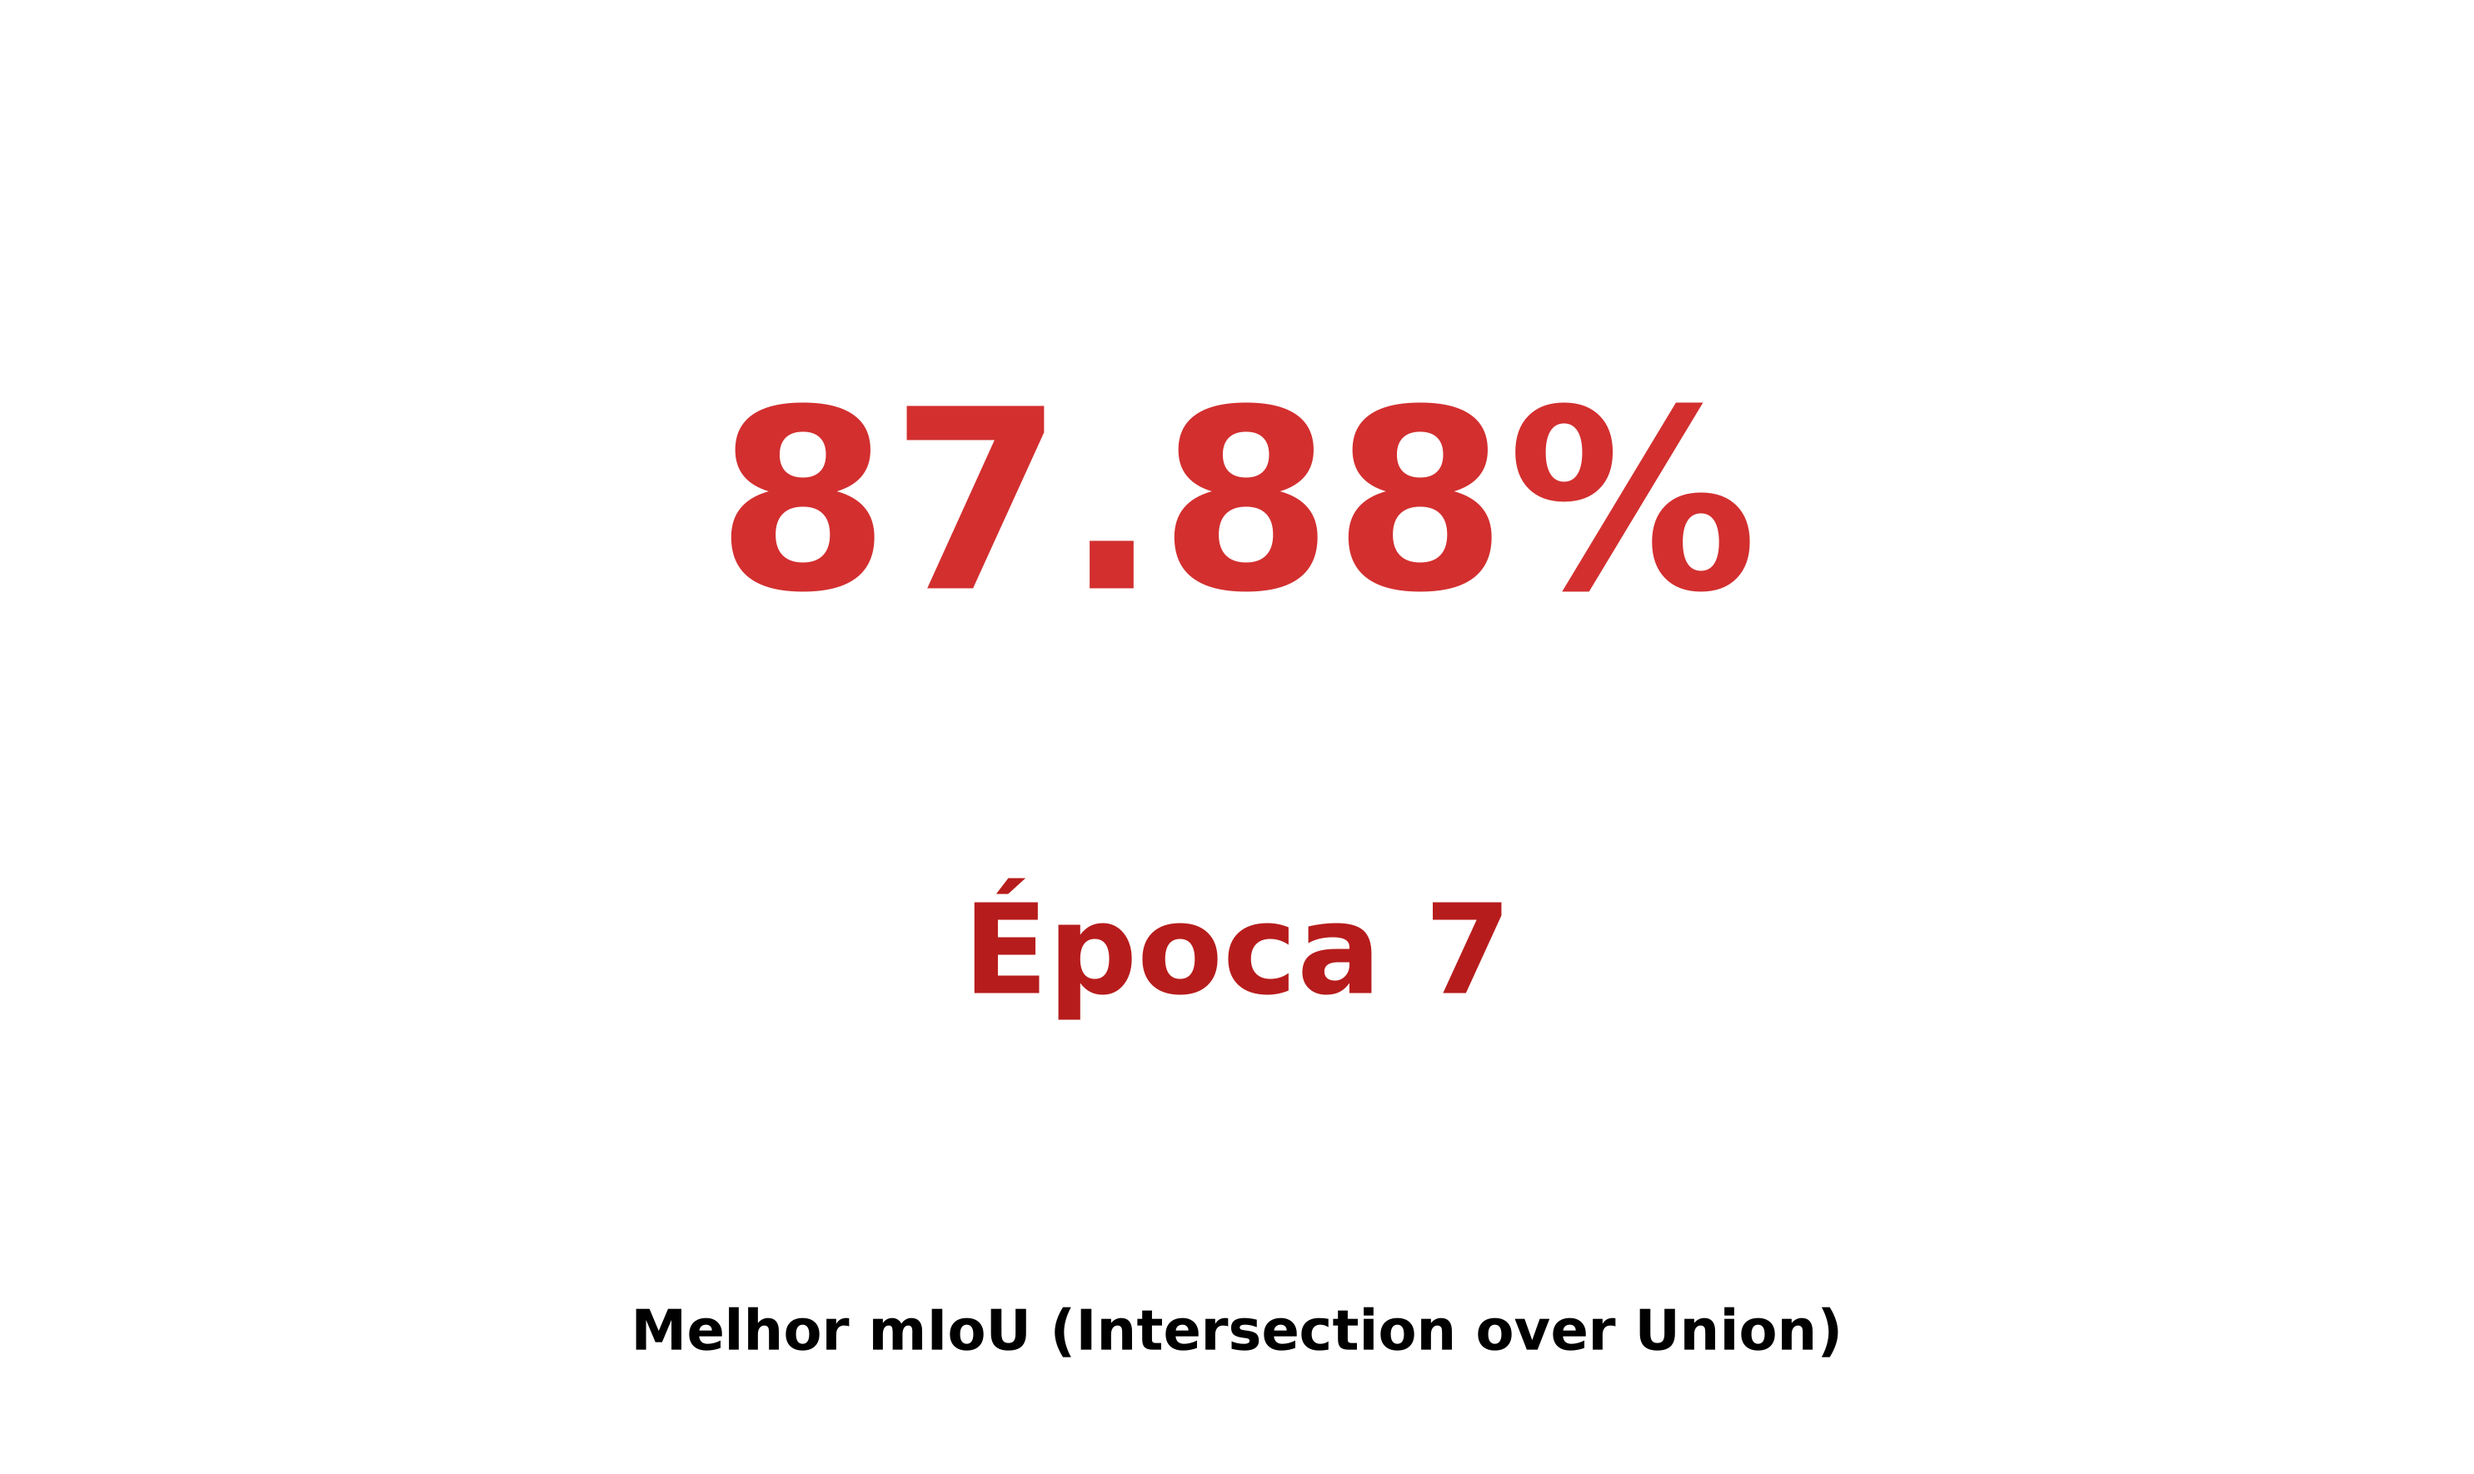
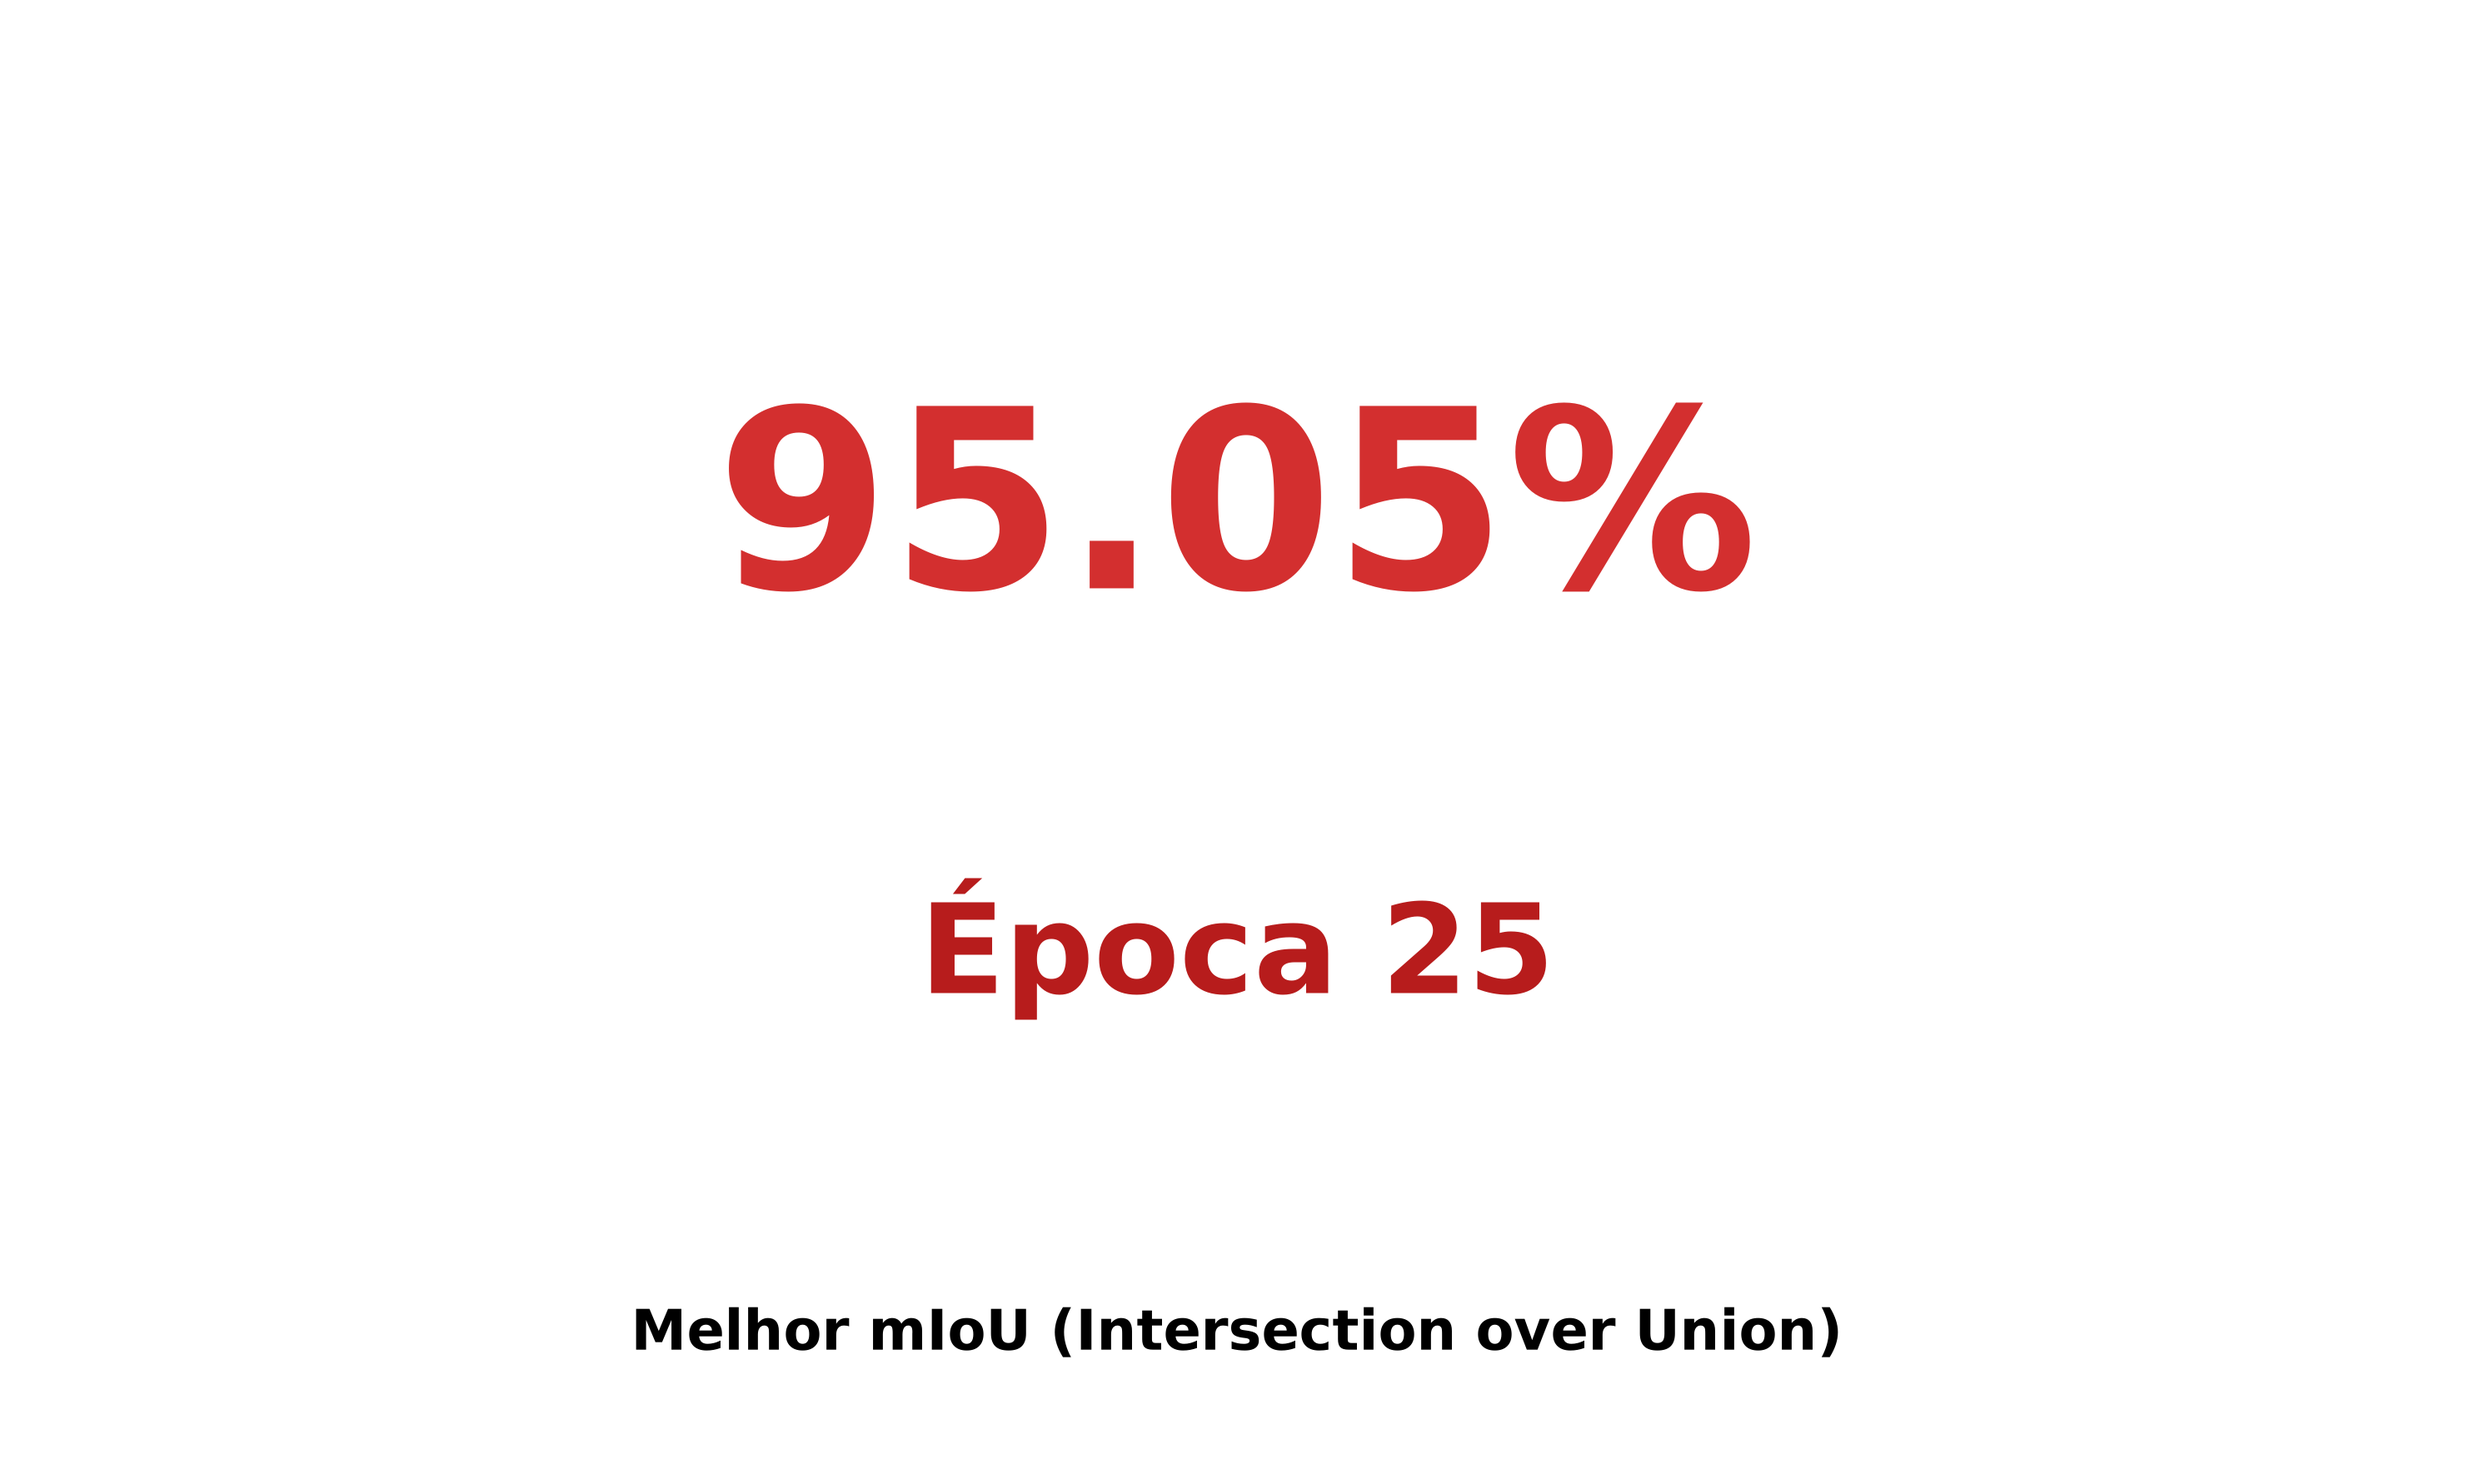
Subindo o modelo de FCN

Changed region(s): [[0.3717, 0.5904, 0.6195, 0.7147], [0.2788, 0.2797, 0.4337, 0.404], [0.4646, 0.2797, 0.6195, 0.404]]

diff --git a/training/trainer/fcn_trainer.py b/training/trainer/fcn_trainer.py
@@ -1,0 +1,117 @@
+import os
+import torch
+import numpy as np
+import torch.nn as nn
+
+from PIL import Image
+from torchvision import transforms
+from torch.utils.data import DataLoader
+
+from ..dataset import OffRoadDataset
+from ..earlyStopping import EarlyStopping
+from .model.fcn import FCN 
+
+from configs.settings import Settings
+from metrics import MetricsTracker, Charts
+
+settings = Settings()
+charts = Charts()
+early_stopping = EarlyStopping()
+
+EPOCHS = settings.get_epochs()
+
+img_transform = transforms.Compose([
+    transforms.Resize((512, 512)),
+    transforms.ToTensor(),
+    transforms.Normalize(mean=[0.485, 0.456, 0.406],
+                         std=[0.229, 0.224, 0.225]),
+])
+
+device = torch.device("cuda" if torch.cuda.is_available() else "cpu")
+model = FCN(num_classes=2).to(device)
+class_weights = torch.tensor([1.0, 9.0]).to(device)
+criterion = nn.CrossEntropyLoss(weight=class_weights)
+optimizer = torch.optim.Adam(model.parameters(), lr=1e-4)
+train_dataset = OffRoadDataset('data/dataset/train', img_transform)
+train_loader = DataLoader(train_dataset, batch_size=4, shuffle=True, num_workers=0)
+
+print(f"Total de imagens de treino: {len(train_dataset)}")
+
+# 3. Alterando o nome da classe do treinador
+class FCNTrainer():
+    def __init__(self):
+        self.metrics_tracker = MetricsTracker()
+        pass
+        
+    def train_one_epoch(self, loader, epoch_num):
+        model.train()
+
+        self.metrics_tracker.start_epoch()
+        for batch_idx, (images, masks) in enumerate(loader):
+            images = images.to(device)
+            masks = masks.to(device)
+
+            optimizer.zero_grad()
+            outputs = model(images)
+            loss = criterion(outputs, masks)
+            loss.backward()
+            optimizer.step()
+
+            self.metrics_tracker.update_metrics(loss.item(), outputs, masks)
+            
+        self.metrics_tracker.end_epoch(epoch_num)
+        early_stopping(self.metrics_tracker.avg_miou)
+
+
+    def train_model(self):
+
+        self.metrics_tracker.start_training()
+        for epoch in range(EPOCHS):
+            epoch_num = epoch + 1
+            
+            self.train_one_epoch(train_loader, epoch_num)
+            self.save_best_model()
+            
+            if early_stopping.should_stop:
+                break
+            
+        self.metrics_tracker.end_training()
+
+
+    def save_best_model(self):
+        if self.metrics_tracker.is_best:
+            # 4. Alterando a pasta de destino para "fcn"
+            path = os.path.join("results", "fcn", "model.pth")
+            
+            # Garante que a pasta 'results/fcn' exista antes de salvar
+            os.makedirs(os.path.dirname(path), exist_ok=True) 
+            
+            torch.save(model.state_dict(), path)
+
+
+    def save_results(self):
+        # 5. Alterando o diretório de inferência para "fcn"
+        output_dir = 'data/dataset/train/new_segmentation/fcn'
+        
+        # Garante que a pasta de resultados da inferência exista
+        os.makedirs(output_dir, exist_ok=True)
+
+        infer_loader = DataLoader(train_dataset, batch_size=4, shuffle=False, num_workers=0)
+        global_idx = 0
+
+        with torch.no_grad():
+            for images, _ in infer_loader:
+                images = images.to(device)
+                outputs = model(images)
+                preds = torch.argmax(outputs, dim=1).cpu().numpy()
+
+                for i in range(preds.shape[0]):
+                    img_name = train_dataset.images[global_idx]
+                    base_name = os.path.splitext(img_name)[0]
+                    output_path = os.path.join(output_dir, base_name + ".png")
+
+                    # via = branco (255), não-via = preto (0)
+                    pred_img = Image.fromarray((preds[i] * 255).astype(np.uint8))
+                    pred_img.save(output_path)
+
+                    global_idx += 1

diff --git a/training/trainer/model/fcn.py b/training/trainer/model/fcn.py
@@ -1,0 +1,29 @@
+import torch
+import torch.nn as nn
+import torch.nn.functional as F
+import torchvision.models as models
+
+class FCN(nn.Module):
+    def __init__(self, num_classes):
+        super().__init__()
+        
+        resnet = models.resnet152(weights='IMAGENET1K_V1')
+        
+        self.backbone = nn.Sequential(*list(resnet.children())[:-2])
+        
+        self.classifier = nn.Sequential(
+            nn.Conv2d(2048, 512, kernel_size=3, padding=1, bias=False),
+            nn.BatchNorm2d(512),
+            nn.ReLU(inplace=True),
+            nn.Dropout(0.1),
+            nn.Conv2d(512, num_classes, kernel_size=1)
+        )
+
+    def forward(self, x):
+        input_size = x.shape[-2:]
+        
+        x = self.backbone(x)
+        x = self.classifier(x)
+        x = F.interpolate(x, size=input_size, mode='bilinear', align_corners=False)
+        
+        return x

diff --git a/training/training_service.py b/training/training_service.py
@@ -1,9 +1,12 @@
 from training import (
     DeepLabV3Trainer,
+    FCNTrainer
 )
 from metrics import Charts
 
 deeplab_v3_trainer = DeepLabV3Trainer()
+fcn_trainer = FCNTrainer()
+
 charts = Charts()
 
 class TrainingService():
@@ -12,9 +15,14 @@ class TrainingService():
         pass
 
     def train_models(self):
+        self.train_fcn()
         self.train_deep_lab()
 
     def train_deep_lab(self):
         deeplab_v3_trainer.train_model()
         deeplab_v3_trainer.save_results()
         charts.plot_charts(deeplab_v3_trainer.metrics_tracker)
+
+    def train_fcn(self):
+        fcn_trainer.train_model()
+        fcn_trainer.save_results()

diff --git a/training/trainer/deeplabv3_trainer.py b/training/trainer/deeplabv3_trainer.py
@@ -84,7 +84,7 @@ class DeepLabV3Trainer():
 
 
     def save_results(self):
-        output_dir = 'data/dataset/train/new_segmentation'
+        output_dir = 'data/dataset/train/new_segmentation/deeplabv3+'
 
         infer_loader = DataLoader(train_dataset, batch_size=4, shuffle=False, num_workers=0)
         global_idx = 0

diff --git a/training/trainer/__init__.py b/training/trainer/__init__.py
@@ -1,7 +1,11 @@
 from .deeplabv3_trainer import DeepLabV3Trainer
 from .model.deeplabv3 import DeepLabV3Plus
+from .fcn_trainer import FCNTrainer
+from .model.fcn import FCN
 
 __all__ = [
     "DeepLabV3Trainer",
-    "DeepLabV3Plus"
+    "DeepLabV3Plus",
+    "FCNTrainer",
+    "FCN"
 ]

diff --git a/training/__init__.py b/training/__init__.py
@@ -1,5 +1,7 @@
 from .trainer import DeepLabV3Trainer
+from .trainer import FCNTrainer
 
 __all__ = [
-    "DeepLabV3Trainer"
+    "DeepLabV3Trainer",
+    "FCNTrainer"
 ]
